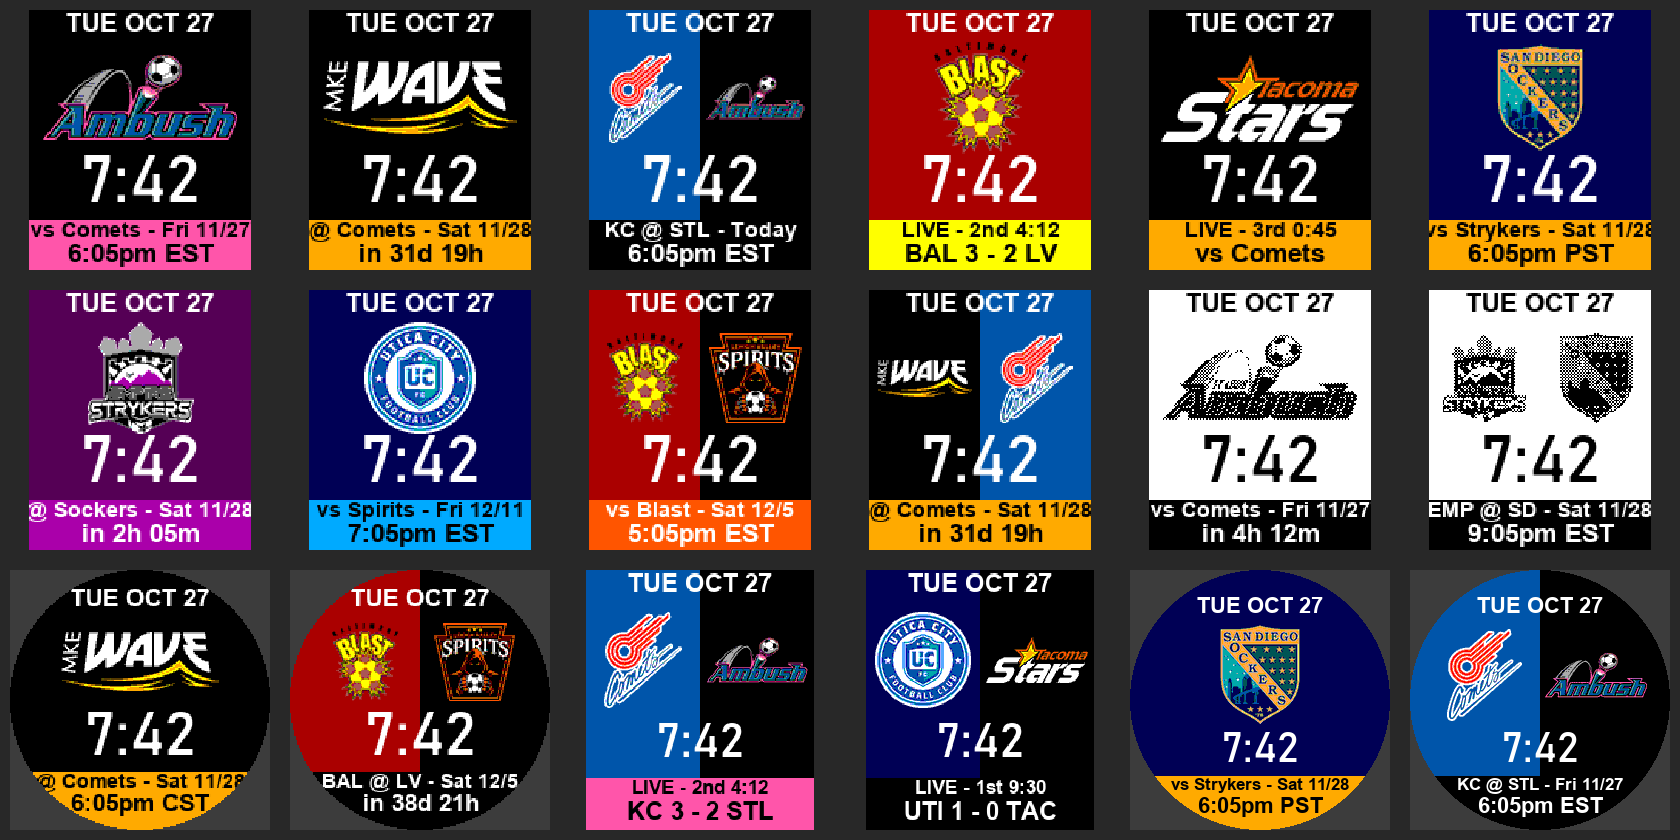
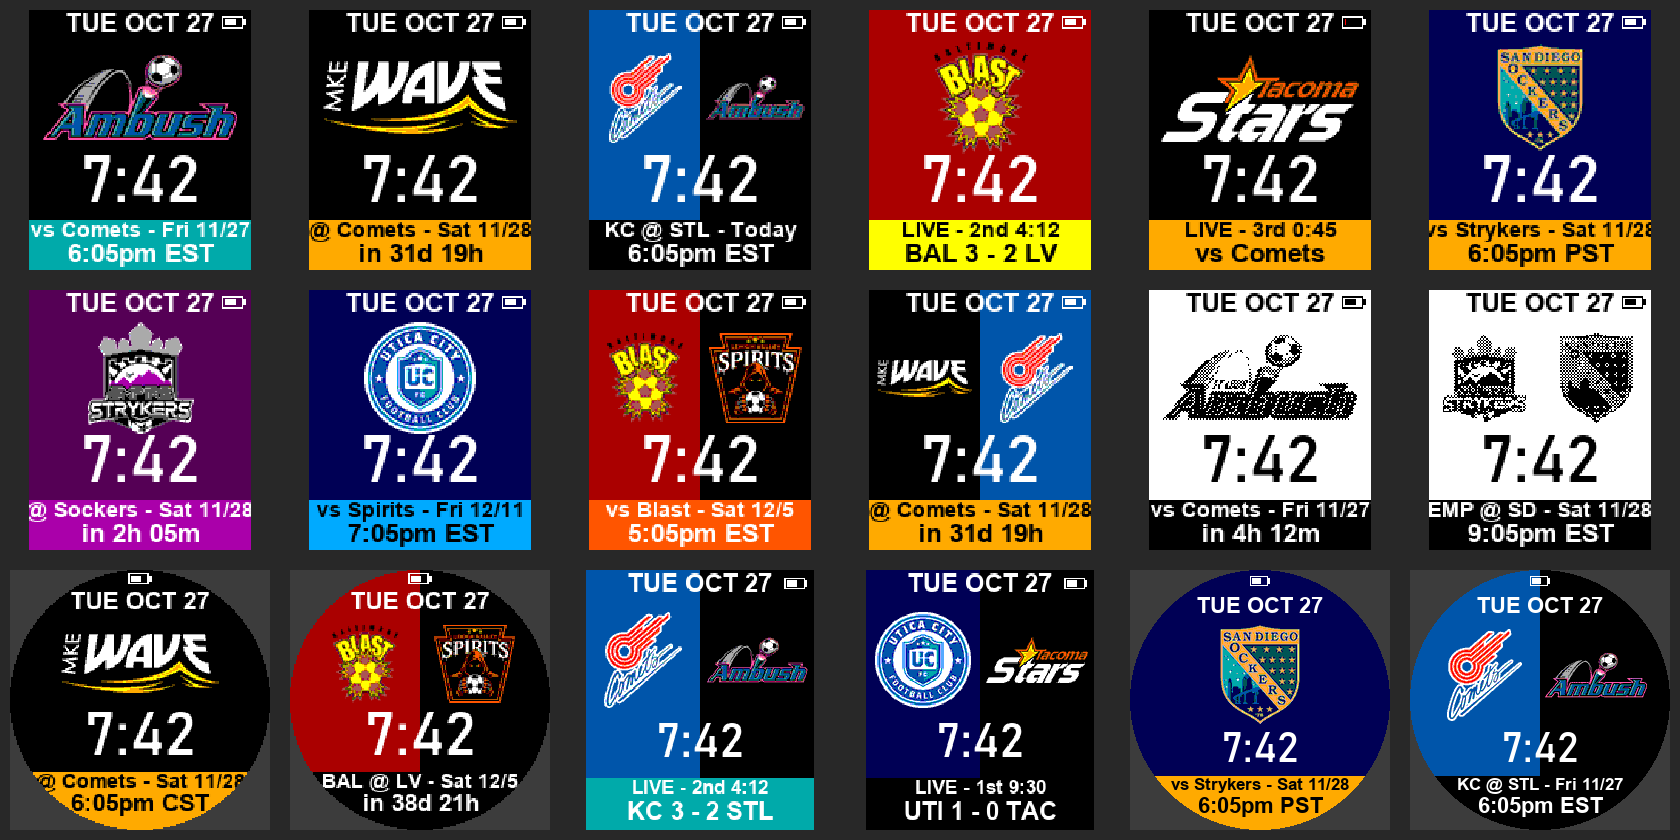
Add battery indicator and game bar color choice
The battery shows top right (top center on round watches), red when at
20% or less and green while charging; a setting shows it always, only
when low or charging, or never. The game bar can use the team's primary
or secondary color or a custom color; Ambush's secondary is the teal
from its logo.

diff --git a/src/pkjs/index.js b/src/pkjs/index.js
@@ -32,7 +32,8 @@ var DAYS = ['Sun', 'Mon', 'Tue', 'Wed', 'Thu', 'Fri', 'Sat'];
 var SETTINGS_KEY = 'settings';
 var DEFAULTS = {
   team: '', view: 'logo', homeOnly: false, mode: 'time', timeZone: 'eastern',
-  showScores: false, liveInterval: 1
+  showScores: false, liveInterval: 1, barColor: 'primary', customColor: 0x00AAAA,
+  battery: 'always'
 };
 
 function loadSettings() {
@@ -211,10 +212,19 @@ function refreshDelay(game, s, now) {
   return mins <= 0 ? LIVE_NO_SCORES : Math.min(IDLE_REFRESH, mins);
 }
 
-// The settings that only change how the watch draws.
+// The settings that only change how the watch draws. The watch numbers its
+// options in the order they're listed here.
 function displayMessage(s) {
   return { Team: s.team, View: s.view === 'split' ? 1 : 0,
-           Mode: s.mode === 'countdown' ? 1 : 0 };
+           Mode: s.mode === 'countdown' ? 1 : 0,
+           BarColor: Math.max(0, ['primary', 'secondary', 'custom'].indexOf(s.barColor)),
+           CustomColor: s.customColor,
+           Battery: Math.max(0, ['always', 'low', 'never'].indexOf(s.battery)) };
+}
+
+// Clay hands back colors as a number, but accept "#00AAAA" or "0x00AAAA" too.
+function colorValue(v) {
+  return typeof v === 'string' ? parseInt(v.replace(/^#|^0x/i, ''), 16) || 0 : +v || 0;
 }
 
 // Everything the watch needs for one game, ready for sendAppMessage. Scores
@@ -331,7 +341,10 @@ if (typeof Pebble !== 'undefined') {
       mode: v('Mode', DEFAULTS.mode),
       timeZone: v('TimeZone', DEFAULTS.timeZone),
       showScores: !!v('ShowScores', DEFAULTS.showScores),
-      liveInterval: +v('LiveInterval', DEFAULTS.liveInterval)
+      liveInterval: +v('LiveInterval', DEFAULTS.liveInterval),
+      barColor: v('BarColor', DEFAULTS.barColor),
+      customColor: colorValue(v('CustomColor', DEFAULTS.customColor)),
+      battery: v('Battery', DEFAULTS.battery)
     };
     localStorage.setItem(SETTINGS_KEY, JSON.stringify(s));
     // Switch the theme right away; the game follows once the fetch is back.

diff --git a/src/pkjs/config.js b/src/pkjs/config.js
@@ -66,6 +66,51 @@ module.exports = [
   },
   {
     type: 'section',
+    capabilities: ['COLOR'],
+    items: [
+      { type: 'heading', defaultValue: 'Colors' },
+      {
+        type: 'select',
+        messageKey: 'BarColor',
+        label: 'Game bar color',
+        description: "Primary and secondary are your team's colors. With no team " +
+                     'picked the bar is black unless you choose Custom.',
+        defaultValue: 'primary',
+        options: [
+          { label: 'Team primary', value: 'primary' },
+          { label: 'Team secondary', value: 'secondary' },
+          { label: 'Custom', value: 'custom' }
+        ]
+      },
+      {
+        type: 'color',
+        messageKey: 'CustomColor',
+        label: 'Custom bar color',
+        description: 'Used when the game bar color is Custom.',
+        defaultValue: '00AAAA',
+        sunlight: false
+      }
+    ]
+  },
+  {
+    type: 'section',
+    items: [
+      { type: 'heading', defaultValue: 'Battery' },
+      {
+        type: 'select',
+        messageKey: 'Battery',
+        label: 'Show battery',
+        defaultValue: 'always',
+        options: [
+          { label: 'Always', value: 'always' },
+          { label: 'When low (20% or less) or charging', value: 'low' },
+          { label: 'Never', value: 'never' }
+        ]
+      }
+    ]
+  },
+  {
+    type: 'section',
     items: [
       { type: 'heading', defaultValue: 'Live games' },
       {

diff --git a/src/c/main.c b/src/c/main.c
@@ -15,13 +15,19 @@
 #define PERSIST_KEY_VERSION 1
 #define PERSIST_KEY_GAME 2
 // Bump when Game changes shape so an old saved copy is ignored.
-#define PERSIST_VERSION 2
+#define PERSIST_VERSION 3
 
 // Minutes before asking the phone again when it hasn't said.
 #define DEFAULT_REFRESH 30
 
 enum { STATE_NONE, STATE_SCHEDULED, STATE_LIVE, STATE_FINAL };
 enum { MODE_START_TIME, MODE_COUNTDOWN };
+enum { BAR_PRIMARY, BAR_SECONDARY, BAR_CUSTOM };
+enum { BATTERY_ALWAYS, BATTERY_LOW, BATTERY_NEVER };
+
+// Battery level at or below which it counts as low (shown in red, and shown
+// at all with the "when low" setting).
+#define BATTERY_LOW_PERCENT 20
 
 typedef struct {
   char team[12];    // selected team's short name, "" for the league's next game
@@ -37,6 +43,9 @@ typedef struct {
   uint8_t state;
   uint8_t mode;
   uint8_t split;    // 1 to show the selected team's game in split view
+  uint8_t bar_style;   // BAR_*: which color the game bar uses
+  uint8_t battery;     // BATTERY_*: when to show the battery
+  int32_t bar_color;   // hex color for BAR_CUSTOM
 } Game;
 
 typedef struct {
@@ -45,28 +54,29 @@ typedef struct {
   uint32_t logo;      // big logo, for the selected team
   uint32_t half;      // smaller logo, for two teams side by side
   uint32_t bg;        // background color
-  uint32_t accent;    // game bar color
+  uint32_t accent;    // game bar color, primary
+  uint32_t accent2;   // game bar color, secondary
 } Team;
 
 // Keep in sync with src/pkjs/teams.js. Backgrounds are all dark enough for
 // white text, so the split matchup screen works for any pair.
 static const Team s_teams[] = {
-  { "Ambush", "STL", RESOURCE_ID_LOGO_AMBUSH, RESOURCE_ID_HALF_AMBUSH, 0x000000, 0xFF55AA },
-  { "Blast", "BAL", RESOURCE_ID_LOGO_BLAST, RESOURCE_ID_HALF_BLAST, 0xAA0000, 0xFFFF00 },
-  { "Comets", "KC", RESOURCE_ID_LOGO_COMETS, RESOURCE_ID_HALF_COMETS, 0x0055AA, 0xFF5500 },
-  { "Sockers", "SD", RESOURCE_ID_LOGO_SOCKERS, RESOURCE_ID_HALF_SOCKERS, 0x000055, 0xFFAA00 },
-  { "Spirits", "LV", RESOURCE_ID_LOGO_SPIRITS, RESOURCE_ID_HALF_SPIRITS, 0x000000, 0xFF5500 },
-  { "Stars", "TAC", RESOURCE_ID_LOGO_STARS, RESOURCE_ID_HALF_STARS, 0x000000, 0xFFAA00 },
-  { "Strykers", "EMP", RESOURCE_ID_LOGO_STRYKERS, RESOURCE_ID_HALF_STRYKERS, 0x550055, 0xAA00AA },
-  { "UCFC", "UTI", RESOURCE_ID_LOGO_UCFC, RESOURCE_ID_HALF_UCFC, 0x000055, 0x00AAFF },
-  { "Wave", "MKE", RESOURCE_ID_LOGO_WAVE, RESOURCE_ID_HALF_WAVE, 0x000000, 0xFFAA00 },
+  { "Ambush", "STL", RESOURCE_ID_LOGO_AMBUSH, RESOURCE_ID_HALF_AMBUSH, 0x000000, 0xFF55AA, 0x00AAAA },
+  { "Blast", "BAL", RESOURCE_ID_LOGO_BLAST, RESOURCE_ID_HALF_BLAST, 0xAA0000, 0xFFFF00, 0x000000 },
+  { "Comets", "KC", RESOURCE_ID_LOGO_COMETS, RESOURCE_ID_HALF_COMETS, 0x0055AA, 0xFF5500, 0xFFFFFF },
+  { "Sockers", "SD", RESOURCE_ID_LOGO_SOCKERS, RESOURCE_ID_HALF_SOCKERS, 0x000055, 0xFFAA00, 0x0055AA },
+  { "Spirits", "LV", RESOURCE_ID_LOGO_SPIRITS, RESOURCE_ID_HALF_SPIRITS, 0x000000, 0xFF5500, 0xFFFFFF },
+  { "Stars", "TAC", RESOURCE_ID_LOGO_STARS, RESOURCE_ID_HALF_STARS, 0x000000, 0xFFAA00, 0x000055 },
+  { "Strykers", "EMP", RESOURCE_ID_LOGO_STRYKERS, RESOURCE_ID_HALF_STRYKERS, 0x550055, 0xAA00AA, 0xAAAAAA },
+  { "UCFC", "UTI", RESOURCE_ID_LOGO_UCFC, RESOURCE_ID_HALF_UCFC, 0x000055, 0x00AAFF, 0x0055AA },
+  { "Wave", "MKE", RESOURCE_ID_LOGO_WAVE, RESOURCE_ID_HALF_WAVE, 0x000000, 0xFFAA00, 0xFFFFFF },
 };
 #define NUM_TEAMS ((int)ARRAY_LENGTH(s_teams))
 
 // Where everything goes on this screen. Logo boxes match the image sizes in
 // tools/convert_logos.py.
 typedef struct {
-  GRect date, logo, time, line1, line2;
+  GRect date, logo, time, line1, line2, battery;
   int16_t bar_y;
   int16_t half_dx;  // distance from the center to each half logo's center
   GFont date_font, time_font, line1_font, line2_font;
@@ -105,11 +115,23 @@ static void team_code(const char *name, char *out, size_t size) {
 }
 
 #ifdef PBL_COLOR
-// A team's background or accent color, or fallback for a team not in s_teams.
-static GColor team_color(const Team *t, bool accent, GColor fallback) {
-  return t ? GColorFromHEX(accent ? t->accent : t->bg) : fallback;
+// A team's background color, or black for a team not in s_teams.
+static GColor team_bg(const Team *t) {
+  return t ? GColorFromHEX(t->bg) : GColorBlack;
 }
 #endif
+
+// The game bar's color: the selected team's primary or secondary accent, or
+// the custom color from settings. Black in league mode unless custom.
+static GColor bar_color(const Team *team) {
+#ifdef PBL_COLOR
+  if (s_game.bar_style == BAR_CUSTOM) return GColorFromHEX(s_game.bar_color);
+  if (!team) return GColorBlack;
+  return GColorFromHEX(s_game.bar_style == BAR_SECONDARY ? team->accent2 : team->accent);
+#else
+  return GColorBlack;
+#endif
+}
 
 // Black or white, whichever reads better on bg.
 static GColor text_on(GColor bg) {
@@ -128,22 +150,22 @@ static void set_layout(GRect b) {
     *l = (Layout){ .date = GRect(0, 20, w, 30), .logo = GRect(0, 50, w, 110),
                    .time = GRect(0, 152, w, 52), .bar_y = 206,
                    .line1 = GRect(40, 203, w - 80, 22), .line2 = GRect(40, 220, w - 80, 30),
-                   .half_dx = 56 };
+                   .half_dx = 56, .battery = GRect(w / 2 - 10, 6, 20, 10) };
   } else if (w >= 200) {  // emery, 200x228
     *l = (Layout){ .date = GRect(0, -4, w, 30), .logo = GRect(0, 26, w, 106),
                    .time = GRect(0, 124, w, 52), .bar_y = 182,
                    .line1 = GRect(4, 179, w - 8, 22), .line2 = GRect(4, 196, w - 8, 30),
-                   .half_dx = 50 };
+                   .half_dx = 50, .battery = GRect(w - 26, 7, 20, 10) };
   } else if (w >= 180) {  // chalk, 180x180 round
-    *l = (Layout){ .date = GRect(0, 8, w, 22), .logo = GRect(0, 30, w, 68),
+    *l = (Layout){ .date = GRect(0, 10, w, 22), .logo = GRect(0, 31, w, 68),
                    .time = GRect(0, 88, w, 50), .bar_y = 140,
                    .line1 = GRect(25, 137, w - 50, 16), .line2 = GRect(25, 150, w - 50, 22),
-                   .half_dx = 38 };
+                   .half_dx = 38, .battery = GRect(w / 2 - 8, 2, 16, 8) };
   } else {                // basalt, diorite, flint, 144x168
     *l = (Layout){ .date = GRect(0, -3, w, 22), .logo = GRect(0, 20, w, 74),
                    .time = GRect(0, 84, w, 50), .bar_y = 136,
                    .line1 = GRect(2, 133, w - 4, 16), .line2 = GRect(2, 146, w - 4, 22),
-                   .half_dx = 36 };
+                   .half_dx = 36, .battery = GRect(w - 19, 4, 16, 8) };
   }
   bool large = w >= 200;
   l->date_font = fonts_get_system_font(large ? FONT_KEY_GOTHIC_24_BOLD : FONT_KEY_GOTHIC_18_BOLD);
@@ -299,6 +321,28 @@ static void draw_text(GContext *ctx, const char *text, GFont font, GRect r, GCol
 // ---------------------------------------------------------------------------
 // Drawing
 
+// A battery outline with a nub on the right, filled to the charge level: red
+// when low, green while charging (color watches).
+static void draw_battery(GContext *ctx, GRect r, GColor fg) {
+  BatteryChargeState b = battery_state_service_peek();
+  bool low = b.charge_percent <= BATTERY_LOW_PERCENT;
+  if (s_game.battery == BATTERY_NEVER ||
+      (s_game.battery == BATTERY_LOW && !low && !b.is_charging)) {
+    return;
+  }
+  GRect body = GRect(r.origin.x, r.origin.y, r.size.w - 2, r.size.h);
+  graphics_context_set_stroke_color(ctx, fg);
+  graphics_draw_rect(ctx, body);
+  graphics_context_set_fill_color(ctx, fg);
+  graphics_fill_rect(ctx, GRect(body.origin.x + body.size.w, r.origin.y + r.size.h / 4, 2,
+                                r.size.h - r.size.h / 4 * 2), 0, GCornerNone);
+  int fill = (body.size.w - 4) * b.charge_percent / 100;
+  graphics_context_set_fill_color(
+      ctx, PBL_IF_COLOR_ELSE(b.is_charging ? GColorGreen : low ? GColorRed : fg, fg));
+  graphics_fill_rect(ctx, GRect(body.origin.x + 2, body.origin.y + 2, fill > 0 ? fill : 1,
+                                body.size.h - 4), 0, GCornerNone);
+}
+
 static void canvas_update(Layer *layer, GContext *ctx) {
   GRect b = layer_get_bounds(layer);
   const Layout *l = &s_layout;
@@ -306,26 +350,26 @@ static void canvas_update(Layer *layer, GContext *ctx) {
   int16_t cx = b.size.w / 2;
 
   // Background: the team's color, or split down the middle for a matchup.
-  // The bar is the selected team's accent color, or black for the league.
+  // The bar color comes from bar_color().
 #ifdef PBL_COLOR
   const Team *team = find_team(s_game.team);
   if (matchup) {
     const Team *away = find_team(s_game.away), *home = find_team(s_game.home);
-    graphics_context_set_fill_color(ctx, team_color(away, false, GColorBlack));
+    graphics_context_set_fill_color(ctx, team_bg(away));
     graphics_fill_rect(ctx, GRect(0, 0, cx, b.size.h), 0, GCornerNone);
-    graphics_context_set_fill_color(ctx, team_color(home, false, GColorBlack));
+    graphics_context_set_fill_color(ctx, team_bg(home));
     graphics_fill_rect(ctx, GRect(cx, 0, b.size.w - cx, b.size.h), 0, GCornerNone);
   } else {
-    graphics_context_set_fill_color(ctx, team_color(team, false, GColorBlack));
+    graphics_context_set_fill_color(ctx, team_bg(team));
     graphics_fill_rect(ctx, b, 0, GCornerNone);
   }
   GColor fg = GColorWhite;
-  GColor bar = team_color(team, true, GColorBlack);
+  GColor bar = bar_color(team);
 #else
   graphics_context_set_fill_color(ctx, GColorWhite);
   graphics_fill_rect(ctx, b, 0, GCornerNone);
   GColor fg = GColorBlack;
-  GColor bar = GColorBlack;
+  GColor bar = bar_color(NULL);
 #endif
   graphics_context_set_fill_color(ctx, bar);
   graphics_fill_rect(ctx, GRect(0, l->bar_y, b.size.w, b.size.h - l->bar_y), 0, GCornerNone);
@@ -341,6 +385,7 @@ static void canvas_update(Layer *layer, GContext *ctx) {
   const char *clock_text = clock[0] == '0' && !clock_is_24h_style() ? clock + 1 : clock;
   draw_text(ctx, date, l->date_font, l->date, fg);
   draw_text(ctx, clock_text, l->time_font, l->time, fg);
+  draw_battery(ctx, l->battery, fg);
 
   // Logos
   if (matchup && (s_game.away[0] || s_game.home[0])) {
@@ -417,6 +462,9 @@ static void inbox_received(DictionaryIterator *it, void *context) {
   read_string(it, MESSAGE_KEY_Status, s_game.status, sizeof(s_game.status));
   if (read_int(it, MESSAGE_KEY_Mode, &n)) s_game.mode = n;
   if (read_int(it, MESSAGE_KEY_View, &n)) s_game.split = n;
+  if (read_int(it, MESSAGE_KEY_BarColor, &n)) s_game.bar_style = n;
+  if (read_int(it, MESSAGE_KEY_CustomColor, &n)) s_game.bar_color = n;
+  if (read_int(it, MESSAGE_KEY_Battery, &n)) s_game.battery = n;
   if (read_int(it, MESSAGE_KEY_State, &n)) s_game.state = n;
   if (read_int(it, MESSAGE_KEY_Start, &n)) s_game.start = n;
   if (read_int(it, MESSAGE_KEY_AwayScore, &n)) s_game.away_score = n;
@@ -443,6 +491,10 @@ static void tick_handler(struct tm *tick_time, TimeUnits changed) {
     s_refresh_in = DEFAULT_REFRESH;  // until the phone answers with its own delay
     request_refresh();
   }
+  layer_mark_dirty(s_canvas);
+}
+
+static void battery_handler(BatteryChargeState state) {
   layer_mark_dirty(s_canvas);
 }
 
@@ -479,6 +531,7 @@ static void init(void) {
   app_message_open(512, 64);
 
   tick_timer_service_subscribe(MINUTE_UNIT, tick_handler);
+  battery_state_service_subscribe(battery_handler);
   connection_service_subscribe((ConnectionHandlers){
     .pebble_app_connection_handler = app_connection_handler,
   });
@@ -486,6 +539,7 @@ static void init(void) {
 
 static void deinit(void) {
   tick_timer_service_unsubscribe();
+  battery_state_service_unsubscribe();
   connection_service_unsubscribe();
   window_destroy(s_window);
   destroy_logo(&s_logo);

diff --git a/README.md b/README.md
@@ -16,7 +16,10 @@ emulator, so spacing on a real watch will differ slightly.
 ## Features
 
 - Time (12/24 hour follows the watch setting), date, and a large team logo
-- Team color themes: background, plus an accent color for the game bar
+- Team color themes: background, plus a game bar in the team's primary or
+  secondary color, or any custom color
+- Battery indicator: top right (top center on round watches), red at 20% or
+  less and green while charging on color watches
 - Split view: your team's next game with both logos, the background split
   between the two teams' colors, and the bar in your team's accent color
 - League mode (no team picked): the next game anywhere in the MASL, always in
@@ -36,6 +39,9 @@ emulator, so spacing on a real watch will differ slightly.
 | --- | --- | --- |
 | My team | None (league's next game), or one of the 9 teams | None |
 | Layout | Big team logo / Split view (only with a team picked) | Big team logo |
+| Game bar color (color watches) | Team primary / Team secondary / Custom | Team primary |
+| Custom bar color | Any Pebble color, used when the bar color is Custom | Teal (`00AAAA`) |
+| Show battery | Always / When low (20% or less) or charging / Never | Always |
 | Home games only | On / off (only with a team picked) | Off |
 | Show | Start time / Countdown to start | Start time |
 | Start times in | Eastern (as listed) / My time zone / Home team's time zone | Eastern |
@@ -66,7 +72,7 @@ phone does the web request.
 
 | File | Purpose |
 | --- | --- |
-| `src/c/main.c` | Watchface: layout per screen shape, team table (colors, abbreviations), drawing, AppMessage handling |
+| `src/c/main.c` | Watchface: layout per screen shape, team table (background, primary and secondary bar colors, abbreviations), drawing, AppMessage handling |
 | `src/pkjs/index.js` | Phone side: fetches and parses the ticker, picks the game, formats start times |
 | `src/pkjs/config.js` | Settings page ([Clay](https://github.com/pebble-dev/clay)) |
 | `src/pkjs/teams.js` | Team names, full names and arena time zones |
